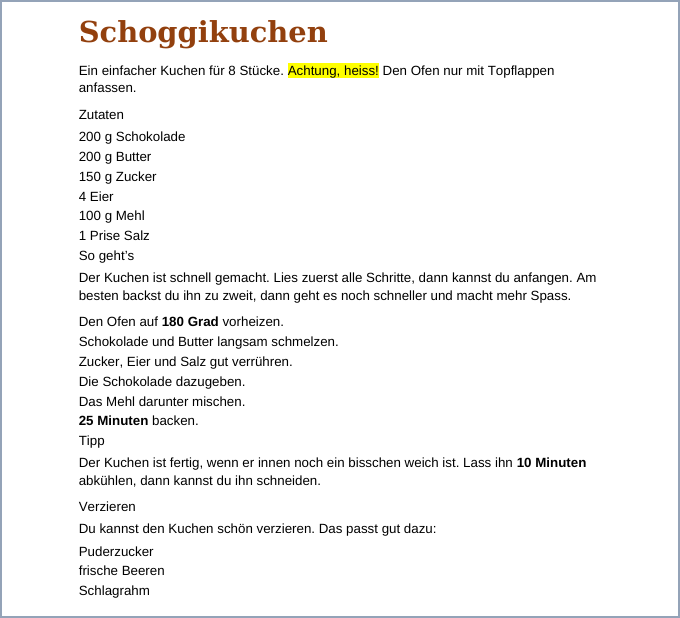
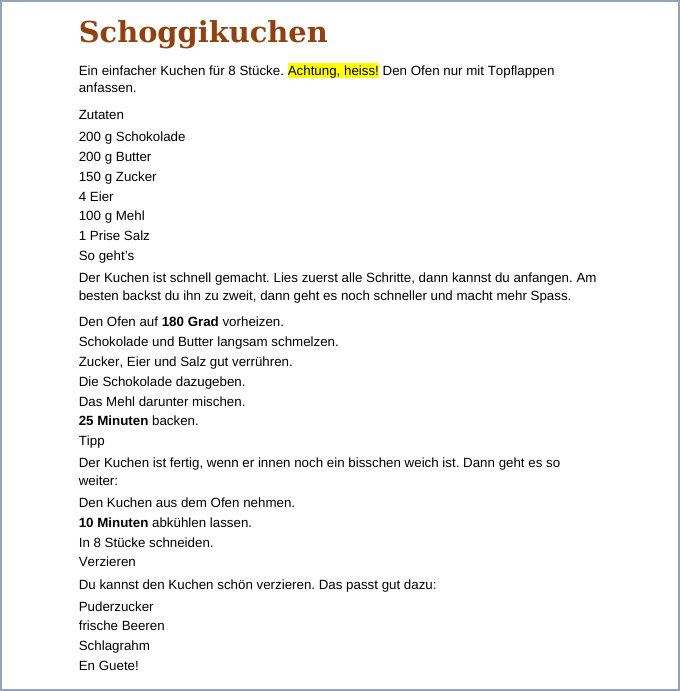
Word-Führerschein: mehr Wiederholung im Nochmals (gleicher Text)
Claude-Session: https://claude.ai/code/session_01DxcwozY8YnNsB45PjCnVcF

Changed region(s): [[0.0926, 0.0307, 0.8647, 0.9838]]

diff --git a/Informatik Word-Fuehrerschein.html b/Informatik Word-Fuehrerschein.html
@@ -520,9 +520,9 @@
           help: ['Die Knöpfe für Listen sind im Reiter Start, links oben in der Gruppe «Absatz».', 'Nur die Zeilen markieren, die in die Liste gehören, nicht den Abschnitt darüber.'],
           proof: 'Zutaten und Verzieren mit Punkten, Schritte mit 1. bis 6.' },
         { id: 'w2_m4', st: 3, nr: ['W2.4'], type: 'mission', q: 'Mission W2.4: Nochmals, im gleichen Rezept',
-          steps: ['Das Rezept hat <b>4 Zwischentitel</b>: Zutaten, So geht’s, Tipp, Verzieren. Mach «Zutaten» <b>fett, blau, Grösse 16</b>.', 'Klicke in «Zutaten». <b>Doppelklick</b> auf den <b>Pinsel</b> (Format übertragen).', 'Fahr mit dem Pinsel über «So geht’s», «Tipp» und «Verzieren». Dann Esc.', 'Jetzt sehen alle 4 Zwischentitel gleich aus.', ...FERTIG('Rezept')],
+          steps: ['Das Rezept hat <b>4 Zwischentitel</b>: Zutaten, So geht’s, Tipp, Verzieren. Mach «Zutaten» <b>fett, blau, Grösse 16</b>.', 'Klicke in «Zutaten». <b>Doppelklick</b> auf den <b>Pinsel</b> und fahr über «So geht’s», «Tipp» und «Verzieren». Dann Esc.', 'Unter «Tipp» stehen <b>3 Schritte</b> (von «Den Kuchen aus dem Ofen …» bis «In 8 Stücke schneiden.»). Mach daraus eine <b>Nummerierung</b>.', 'Ganz unten steht «En Guete!». Mach es <b>zentriert</b>, Grösse <b>20</b> und <b>fett</b>.', ...FERTIG('Rezept')],
           help: [ABG_HELP, AUF_HELP, 'Pinsel nicht gefunden? Reiter Start, ganz links, unter «Einfügen».'],
-          proof: '4 Zwischentitel fett, blau und gleich gross. Die Datei ist in «Abgabe».' }
+          proof: '4 Zwischentitel gleich, Tipp mit 1. 2. 3., «En Guete!» in der Mitte. Die Datei ist in «Abgabe».' }
       ],
       // ---------- W3: Überschriften & Tabulator ----------
       k3: [
@@ -564,17 +564,17 @@
           help: [DL_HELP, REN_HELP, APP_HELP, AUF_HELP],
           proof: '«Informatik_Klassenlager» liegt in MI › Word. Ein Wort gelb, eines fett, Zeilenabstand 1,5, Programm mit Punkten.' },
         { id: 'w3_m2', st: 3, nr: ['W3.2'], type: 'mission', q: 'Mission W3.2: Titel und Überschriften',
-          steps: ['Klicke in die erste Zeile «Unser Klassenlager». Start › Formatvorlagen › <b>Titel</b>.', 'Das sind die <b>5 Kapitel</b>: Einleitung, Das Haus, Das Programm, Packliste, Kosten. Klicke in jedes und wähle <b>Überschrift 1</b>.', '«Die Zimmer» und «Das Essen» sind Teile im Kapitel «Das Haus». Gib beiden <b>Überschrift 2</b>.', 'Ansicht › <b>Navigationsbereich</b>: Siehst du links deine Kapitel? Klicke auf «Packliste»: Word springt hin. Ctrl + S.'],
+          steps: ['Klicke in die erste Zeile «Unser Klassenlager». Start › Formatvorlagen › <b>Titel</b>.', 'Gib diesen <b>3 Kapiteln</b> die <b>Überschrift 1</b>: Einleitung, Das Haus, Das Programm. (Packliste und Kosten kommen später.)', '«Die Zimmer» und «Das Essen» sind Teile im Kapitel «Das Haus». Gib beiden <b>Überschrift 2</b>.', 'Ansicht › <b>Navigationsbereich</b>: Siehst du links deine Kapitel? Klicke auf «Das Programm»: Word springt hin. Ctrl + S.'],
           help: ['«Titel» oder «Überschrift 2» nicht zu sehen? Bei den Formatvorlagen auf den kleinen Pfeil ▾ klicken.'],
-          proof: 'Links im Navigationsbereich stehen 5 Kapitel. «Die Zimmer» und «Das Essen» sind etwas eingerückt.' },
+          proof: 'Links im Navigationsbereich stehen 3 Kapitel. «Die Zimmer» und «Das Essen» sind etwas eingerückt.' },
         { id: 'w3_m3', st: 3, nr: ['W3.3'], type: 'mission', q: 'Mission W3.3: Packliste mit Tabulator',
           steps: ['Klicke auf <b>¶</b> (Start, Gruppe Absatz). In der Packliste siehst du viele Punkte · : Das sind <b>Leerschläge</b>.', 'Lösche bei «Schlafsack» die Leerschläge vor der Zahl. Drück stattdessen die <b>Tab-Taste</b>, bis die Zahl ungefähr in der Mitte steht.', 'Mach es bei <b>allen 6 Zeilen</b> der Packliste so, bis alle Zahlen genau untereinander stehen.', 'Ctrl + S.'],
           help: ['Ein langes Wort braucht weniger Tabs als ein kurzes. Drück so oft, bis es passt.', 'Zu weit gesprungen? Mit der Rücktaste ⌫ einen Tab löschen.'],
           proof: 'Alle Zahlen der Packliste stehen genau untereinander.' },
         { id: 'w3_m4', st: 3, nr: ['W3.4'], type: 'mission', q: 'Mission W3.4: Nochmals, im gleichen Projekt',
-          steps: ['Geh zum letzten Kapitel <b>«Kosten»</b>. Auch dort stehen Leerschläge vor den Beträgen.', 'Mach es wie bei der Packliste: Leerschläge weg, <b>Tab-Taste</b>, bis alle <b>4 Beträge</b> genau untereinander stehen.', 'Mach die Zeile «Total» <b>fett</b>. Klicke nochmals auf ¶: Die Zeichen sind wieder versteckt.', 'Klicke im Navigationsbereich auf «Einleitung»: Word springt nach oben.', ...FERTIG('Klassenlager')],
+          steps: ['Gib den letzten 2 Kapiteln «Packliste» und «Kosten» auch die <b>Überschrift 1</b>. Schau im Navigationsbereich: Jetzt sind es 5 Kapitel.', 'Im Kapitel «Kosten» stehen Leerschläge vor den Beträgen. Mach es wie bei der Packliste: Leerschläge weg, <b>Tab-Taste</b>, bis alle <b>4 Beträge</b> genau untereinander stehen.', 'Mach die Zeile «Total» <b>fett</b>. Klicke nochmals auf ¶: Die Zeichen sind wieder versteckt.', 'Klicke im Navigationsbereich auf «Einleitung»: Word springt nach oben.', ...FERTIG('Klassenlager')],
           help: [ABG_HELP, AUF_HELP, 'Mit ¶ siehst du, wo noch Leerschläge sind.'],
-          proof: 'Packliste und Kosten stehen genau untereinander, «Total» ist fett. Die Datei ist in «Abgabe».' }
+          proof: '5 Kapitel im Navigationsbereich, Packliste und Kosten genau untereinander, «Total» fett. Die Datei ist in «Abgabe».' }
       ],
       // ---------- W4: Bearbeiten & Prüfen ----------
       k4: [
@@ -624,13 +624,13 @@
           help: ['Ctrl + H geht nicht? Start › ganz rechts › Ersetzen.', 'Ctrl + F zeigt links alle Stellen mit dem Wort. So kannst du prüfen, ob noch ein «Donnerstag» da ist.'],
           proof: 'Überall steht Freitag. «Wir freuen uns auf Sie!» steht vor dem Gruss.' },
         { id: 'w4_m3', st: 3, nr: ['W4.3'], type: 'mission', q: 'Mission W4.3: Sprache und Rechtschreibung',
-          steps: ['Fast alles ist rot! Drück <b>Ctrl + A</b>.', '<b>Überprüfen › Sprache › Sprache für die Korrekturhilfen festlegen</b> → <b>Deutsch (Schweiz)</b> → OK.', 'Jetzt sind nur noch die echten Fehler rot. Klicke mit der <b>rechten Maustaste</b> auf ein rotes Wort und wähle die richtige Schreibweise.', 'Im ganzen Brief hat es <b>6 Fehler</b>. Verbessere alle 6. Ctrl + S.'],
+          steps: ['Fast alles ist rot! Drück <b>Ctrl + A</b>.', '<b>Überprüfen › Sprache › Sprache für die Korrekturhilfen festlegen</b> → <b>Deutsch (Schweiz)</b> → OK.', 'Jetzt sind nur noch die echten Fehler rot. Klicke mit der <b>rechten Maustaste</b> auf ein rotes Wort und wähle die richtige Schreibweise.', 'Verbessere die <b>3 Fehler im oberen Teil</b> (bis «Programm:»). Die anderen machst du in W4.4. Ctrl + S.'],
           help: ['Auch Überprüfen › Editor (oder F7) zeigt dir die Fehler nacheinander.', 'Word schlägt etwas Falsches vor? Du entscheidest. Nicht jeder Vorschlag stimmt.'],
-          proof: 'Im Brief keine roten Wellenlinien mehr.' },
+          proof: 'Bis «Programm:» keine roten Wellenlinien mehr.' },
         { id: 'w4_m4', st: 3, nr: ['W4.4'], type: 'mission', q: 'Mission W4.4: Nochmals, im gleichen Brief',
-          steps: ['Das Fest ist nicht in der Aula, sondern in der <b>Turnhalle</b>. Ersetze mit <b>Ctrl + H</b> jedes «Aula» durch «Turnhalle».', 'Such mit <b>Ctrl + F</b> das Wort «Kuchen». In welchem Satz steht es?', 'Der Satz «Bitte melden Sie sich bis Montag an.» steht am falschen Ort. Verschieb ihn mit <b>Ctrl + X</b> / <b>Ctrl + V</b> direkt vor «Wir freuen uns auf Sie!».', 'Lies den Brief nochmals ganz durch: Stimmt jetzt alles?', ...FERTIG('Einladung')],
+          steps: ['Das Fest ist nicht in der Aula, sondern in der <b>Turnhalle</b>. Ersetze mit <b>Ctrl + H</b> jedes «Aula» durch «Turnhalle».', 'Such mit <b>Ctrl + F</b> das Wort «Kuchen». In welchem Satz steht es?', 'Der Satz «Bitte melden Sie sich bis Montag an.» steht am falschen Ort. Verschieb ihn mit <b>Ctrl + X</b> / <b>Ctrl + V</b> direkt vor «Wir freuen uns auf Sie!».', 'Unter «Programm:» hat es noch <b>5 Fehler</b>. Drück <b>F7</b> (Editor) und verbessere sie nacheinander.', ...FERTIG('Einladung')],
           help: [ABG_HELP, AUF_HELP, 'Ctrl + F zeigt links jede Stelle mit dem Wort.'],
-          proof: 'Überall steht Turnhalle. «Bitte melden …» steht vor «Wir freuen uns auf Sie!». Die Datei ist in «Abgabe».' }
+          proof: 'Überall Turnhalle, «Bitte melden …» vor «Wir freuen uns auf Sie!», keine roten Wellenlinien mehr. Die Datei ist in «Abgabe».' }
       ],
       // ---------- W5: Bild ----------
       k5: [
@@ -680,9 +680,9 @@
           help: ['Das Bild lässt sich nicht schieben? Dann ist es noch «Mit Text in Zeile». Layoutoptionen ändern.', 'Bild hinter dem Text lässt sich nicht mehr anklicken? Ctrl + Z.'],
           proof: 'Igel rechts mit Text daneben, Apfel frei neben dem Titel.' },
         { id: 'w5_m4', st: 3, nr: ['W5.4'], type: 'mission', q: 'Mission W5.4: Nochmals, im gleichen Text',
-          steps: ['Klicke an den Anfang des Abschnitts «Im Herbst frisst …». Füge ein Bild von <b>Laub</b> (Blättern) ein.', 'An einer <b>Ecke</b> kleiner ziehen. Layoutoptionen › <b>Quadratisch</b>. Schieb es an den <b>linken</b> Rand.', 'Mach den Titel «Der Igel» <b>zentriert</b> und <b>braun</b>.', 'Schau die ganze Seite an: 3 Bilder, nichts verdeckt den Text?', ...FERTIG('Igel')],
+          steps: ['Klicke an den Anfang des Abschnitts «Im Herbst frisst …». Füge ein Bild von <b>Laub</b> (Blättern) ein.', 'An einer <b>Ecke</b> kleiner ziehen. Layoutoptionen › <b>Quadratisch</b>. Schieb es an den <b>linken</b> Rand.', 'Füge ein kleines Bild von einem <b>Wurm</b> ein: <b>Vor den Text</b>, schieb es frei neben den letzten Abschnitt «So hilfst du …».', 'Mach den Titel «Der Igel» <b>zentriert</b> und <b>braun</b>.', ...FERTIG('Igel')],
           help: [ABG_HELP, AUF_HELP, 'Bild springt herum? Ctrl + Z und nochmals in Ruhe ziehen.'],
-          proof: 'Igel rechts, Laub links, Apfel beim Titel, Titel in der Mitte. Die Datei ist in «Abgabe».' }
+          proof: 'Igel rechts, Laub links, Apfel beim Titel, Wurm unten frei, Titel in der Mitte. Die Datei ist in «Abgabe».' }
       ],
       // ---------- W6: Tabelle ----------
       k6: [

diff --git a/docs/seiten.md b/docs/seiten.md
@@ -90,7 +90,7 @@ Vor der Arbeit an einer Seite nur ihren Abschnitt lesen (`grep -n "^## " docs/se
 ## Computer-Grundlagen und Word-Führerschein: Besonderheiten
 - **Exkurs vor Kapitel 4 von connected 3** (Entscheid Lehrperson 18.11.2026). Geräte: Windows 11, wenig Speicher, gespeichert wird in OneDrive, abgegeben in Teams. 1 Lektion Informatik pro Woche; Anzahl Lektionen egal, Qualität zählt (Lehrperson 18.11.). Gerüst und Mechanik wie Lernpfad RZG (Sterne, Etappen, Wiederholung nach 1 und 3 Tagen), Farbe Indigo.
 - **Computer-Grundlagen:** 2 Teile = 2 Lektionen: 1 Dateien & OneDrive (M1–M4), 2 Download, Screenshot, Teams (M5–M7). Lehrperson 24.11.: M1–M3 allein füllen keine Lektion → M4 «Aufräum-Challenge»: `dateien/Chaos-Ordner.zip` (12 Dateien mit schlechten Namen, je erste Zeile = Fach und Thema; entpacken, Fach-Ordner, umbenennen, einsortieren, Doppel löschen; erstellt mit `make_chaos.py`). Vorlage `dateien/Lektion2_Vorlage.docx`.
-- **Word-Führerschein** (Wunsch Lehrperson 18.11.: Word in einer Lektion ist zu wenig, viel üben und wiederholen; 25.11.: Gerüst = ECDL-Liste Textverarbeitung, alles Alltagspraktische, nur Seriendruck und Spezielles weg; **immer Desktop-App**, nicht Word im Browser): 7 Teile = 7 Lektionen W1–W7 (Schrift · Absatz · Überschriften · Bearbeiten & Prüfen · Bild · Tabelle · Seite & Abgabe). Ab W2 beginnt jede Lektion mit einer **Aufwärm-Mission**, die Früheres wiederholt. Jede Lektion endet mit «Nochmals» (Teil 2 der gleichen Übungsdatei): viel repetieren (Wunsch 25.11.). **Speichern:** Übungsdatei umbenennen auf `Informatik_<Thema>`, oft Ctrl + S. **Selbständig und nachvollziehbar (Wunsch 25.11.):** Jede Mission (ausser W1.1, W7.4) hat «👀 So sollte es aussehen» mit Zielbild `dateien/ziel/W?.?.png` (erstellt mit `make_zielbilder.py`, privat). Am Schluss jeder Lektion ein eigener Satz («Das kann ich jetzt: …») und Ablage in Teams: Die Schüler arbeiten im eigenen Ordner **«Aufgabenbearbeitung › MI › Word»** (MI und Word legen sie in W1.1 selber an, Wunsch 26.11.) (Datei aus der Mail dort hochladen, umbenennen, «In App öffnen») und kopieren sie am Schluss in **«Abgabe»** (dort nicht mehr löschbar; die Lehrperson sieht beide Ordner, Wunsch 25.11.). **Falsche Aufgaben kommen beim Word nicht nochmals** (Wunsch 25.11.: «eher nicht zielführend»; `norepeat` in `make_lernpfad.py`), die Wiederholungen nach 1 und 3 Tagen bleiben. Beim Zuordnen bleiben richtige Zeilen nach dem Prüfen grün. Reihenfolge-Aufgaben: kein Schritt steht beim Start am richtigen Platz. **Übungsdateien kommen per Mail** von der Lehrperson (Wunsch 25.11.: selber speichern); der Knopf auf der Seite heisst «Keine Mail? Datei hier holen». Übungsdateien ohne Autor und mit Bearbeitungszeit 0: So sieht die Lehrperson in Word (Datei › Informationen), wer zuletzt geändert hat und wie lange. Übungsdateien in `dateien/`: **pro Lektion genau eine Datei mit einem Thema** (Wunsch 26.11.: lieber den Text länger, «Nochmals» übt im gleichen Text an anderen Stellen; jede Mission sagt genau, welcher Abschnitt): W1 Rheinfall, W2 Rezept, W3 Projekt (Klassenlager), W4 Einladung (absichtlich auf Englisch gestellt, 6 Fehler, 3× «Donnerstag», 3× «Aula», 2 Sätze am falschen Ort), W5 Igel (3× «Igl»), W6 Tiere (2 Tabellen), W7 Projekt (schon formatiert; das Plakat ist weg).
+- **Word-Führerschein** (Wunsch Lehrperson 18.11.: Word in einer Lektion ist zu wenig, viel üben und wiederholen; 25.11.: Gerüst = ECDL-Liste Textverarbeitung, alles Alltagspraktische, nur Seriendruck und Spezielles weg; **immer Desktop-App**, nicht Word im Browser): 7 Teile = 7 Lektionen W1–W7 (Schrift · Absatz · Überschriften · Bearbeiten & Prüfen · Bild · Tabelle · Seite & Abgabe). Ab W2 beginnt jede Lektion mit einer **Aufwärm-Mission**, die Früheres wiederholt. Jede Lektion endet mit «Nochmals» (Teil 2 der gleichen Übungsdatei): viel repetieren (Wunsch 25.11.). **Speichern:** Übungsdatei umbenennen auf `Informatik_<Thema>`, oft Ctrl + S. **Selbständig und nachvollziehbar (Wunsch 25.11.):** Jede Mission (ausser W1.1, W7.4) hat «👀 So sollte es aussehen» mit Zielbild `dateien/ziel/W?.?.png` (erstellt mit `make_zielbilder.py`, privat). Am Schluss jeder Lektion ein eigener Satz («Das kann ich jetzt: …») und Ablage in Teams: Die Schüler arbeiten im eigenen Ordner **«Aufgabenbearbeitung › MI › Word»** (MI und Word legen sie in W1.1 selber an, Wunsch 26.11.) (Datei aus der Mail dort hochladen, umbenennen, «In App öffnen») und kopieren sie am Schluss in **«Abgabe»** (dort nicht mehr löschbar; die Lehrperson sieht beide Ordner, Wunsch 25.11.). **Falsche Aufgaben kommen beim Word nicht nochmals** (Wunsch 25.11.: «eher nicht zielführend»; `norepeat` in `make_lernpfad.py`), die Wiederholungen nach 1 und 3 Tagen bleiben. Beim Zuordnen bleiben richtige Zeilen nach dem Prüfen grün. Reihenfolge-Aufgaben: kein Schritt steht beim Start am richtigen Platz. **Übungsdateien kommen per Mail** von der Lehrperson (Wunsch 25.11.: selber speichern); der Knopf auf der Seite heisst «Keine Mail? Datei hier holen». Übungsdateien ohne Autor und mit Bearbeitungszeit 0: So sieht die Lehrperson in Word (Datei › Informationen), wer zuletzt geändert hat und wie lange. Übungsdateien in `dateien/`: **pro Lektion genau eine Datei mit einem Thema** (Wunsch 26.11.: lieber den Text länger, «Nochmals» übt im gleichen Text an anderen Stellen; jede Mission sagt genau, welcher Abschnitt): W1 Rheinfall, W2 Rezept, W3 Projekt (Klassenlager), W4 Einladung (absichtlich auf Englisch gestellt, 8 Fehler: 3 oben, 5 unten fürs Nochmals, 3× «Donnerstag», 3× «Aula», 2 Sätze am falschen Ort), W5 Igel (3× «Igl»), W6 Tiere (2 Tabellen), W7 Projekt (schon formatiert; das Plakat ist weg).
 - **Stufen:** 1 Erkennen, 2 Ergänzen, 3 **Am Laptop**. **Aufgabentyp `mission`:** Schritte abhaken (gespeichert in `STATE.ticks`, bleiben beim Wechsel zu Word/Teams), «Mission geschafft!» erst, wenn alle abgehakt sind, kein automatisches Weiter, «🆘 Ich komme nicht weiter» zeigt Hilfen. Selbstauskunft; geprüft wird die Abgabe in Teams. Missionen kommen nicht in die Wiederholungen. `link`/`linkText` = Download-Knopf über den Schritten.
 - **Bilder** selbst gezeichnet, keine Bildschirmfotos von Microsoft. Beim Word-Menüband in Aufgaben keine Beschriftung unter den Knöpfen (würde die Antwort verraten), nur in der Theorie (`SVG_WORD(true)`).
 - Gespeichert unter `info_grundlagen_pfad` bzw. `info_word_pfad`. Erstellt mit `Informatik/Computer-Grundlagen/_quelle/make_lernpfad.py` (privat; `bilder.js`, `inhalt_grundlagen.js`, `inhalt_word.js`), Übungsdateien mit `make_uebungsdateien.py`.
